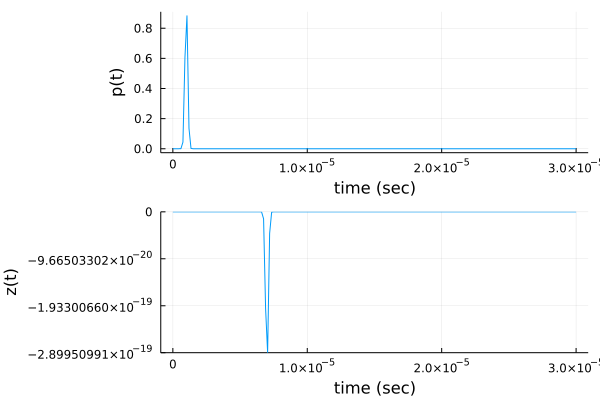
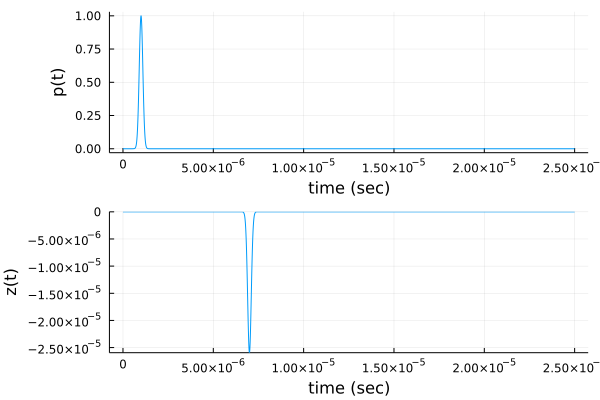
update STAT directional A

diff --git a/docs/src/stationaryDirectionSource/stationaryDirSource.md b/docs/src/stationaryDirectionSource/stationaryDirSource.md
@@ -7,43 +7,44 @@
 | $\Theta(t)$     | scalar function of time    | angle relative to time-varying beam center |
 | $\mathrm{G}_\mathrm{s}(\Theta)$   | scalar function of angle  |  Gain of the source antenna |
 | $\mathrm{G}_\mathrm{r}(\Theta)$   | scalar function of angle  |  Gain of the receiver antenna |
-| $\mathrm{D}_\mathrm{s}\big(\bm{\xi};\,{\mathbf{p}_\mathrm{s},\mathrm{G}_\mathrm{s}(\cdot)}\big)$   | scalar function of position |  directivity of source |
-| $h\big(\bm{\xi},t;\,{\mathbf{p}_\mathrm{s},\mathrm{G}_\mathrm{s}(\cdot)}\big)$       |  scalar function of position and time  | LTI impulse response from    $\mathbf{p}_\mathrm{s}$ to  $\bm{\xi}$ |
-| $g(\bm{\xi},t;\,{\mathbf{p}_\mathrm{r}})$   |  scalar function of position and time  | LTI impulse response from    $\bm{\xi}$ to $\mathbf{p}_\mathrm{r}$ |
+| $\mathrm{D}_\mathrm{s}\big(\bm{\xi};\,{\mathbf{p}_\mathrm{s},\mathbf{b}_\mathrm{s}(\cdot)}\big)$   | scalar function of position |  directivity of source |
+| $\mathrm{D}_\mathrm{r}\big(\bm{\xi};\,{\mathbf{p}_\mathrm{r},\mathbf{b}_\mathrm{r}(\cdot)}\big)$   | scalar function of position |  directivity of receiver |
+| $\mathsf{h}\big(\bm{\xi},t;\,{\mathbf{p}_\mathrm{s},\mathbf{b}_\mathrm{s}(\cdot)}\big)$       |  scalar function of position and time  | LTI impulse response from    $\mathbf{p}_\mathrm{s}$ to  $\bm{\xi}$ |
+| $\mathsf{g}(\bm{\xi},t;\,{\mathbf{p}_\mathrm{r},\mathbf{b}_\mathrm{r}(\cdot)})$   |  scalar function of position and time  | LTI impulse response from    $\bm{\xi}$ to $\mathbf{p}_\mathrm{r}$ |
 
 ![](https://raw.githubusercontent.com/NMSU-ISA/LTVsystems/main/docs/src/assets/Stationary_Directional_Model_BD.png)
 
 
 The LTI impulse response from $\mathbf{p}_\mathrm{s}$ to  $\bm{\xi}$ is given by
 
-$h\big(\bm{\xi},t;\,{\mathbf{p}_\mathrm{s},\mathbf{b}_\mathrm{s}(\cdot)}\big) = \mathrm{D}_\mathrm{s}\big(\bm{\xi};\,{\mathbf{p}_\mathrm{s},\mathbf{b}_\mathrm{s}(\cdot)}\big)
-\mathrm{A}\left(\frac{\|\bm{\xi}-\mathbf{p}_\mathrm{s}\|}
+$\mathsf{h}\big(\bm{\xi},t;\,{\mathbf{p}_\mathrm{s},\mathbf{b}_\mathrm{s}(\cdot)}\big) = \mathrm{D}_\mathrm{s}\big(\bm{\xi};\,{\mathbf{p}_\mathrm{s},\mathbf{b}_\mathrm{s}(\cdot)}\big)
+\mathsf{A}\left(\frac{\|\bm{\xi}-\mathbf{p}_\mathrm{s}\|}
 {\mathrm{c}}\right) \delta\left(t-\frac{\|\bm{\xi}-\mathbf{p}_\mathrm{s}\|}{\mathrm{c}}\right).$
 
 ```math
 \begin{aligned}
-q(\bm{\xi},t)  &= p(t) \overset{t}{*} h\big(\bm{\xi},t;\,{\mathbf{p}_\mathrm{s},\mathbf{b}_\mathrm{s}(\cdot)}\big) \\
+\mathsf{q}(\bm{\xi},t)  &= \mathsf{p}(t) \overset{t}{*} \mathsf{h}\big(\bm{\xi},t;\,{\mathbf{p}_\mathrm{s},\mathbf{b}_\mathrm{s}(\cdot)}\big) \\
                &=\mathrm{D}_\mathrm{s}\big(\bm{\xi};\,{\mathbf{p}_\mathrm{s},\mathbf{b}_\mathrm{s}(\cdot)}\big)
-               \mathrm{A}\left(\frac{\|\bm{\xi}-\mathbf{p}_\mathrm{s}\|}
-               {\mathrm{c}}\right) p\left(t-\frac{\|\bm{\xi}-\mathbf{p}_\mathrm{s}\|}{\mathrm{c}}\right).
+               \mathsf{A}\left(\frac{\|\bm{\xi}-\mathbf{p}_\mathrm{s}\|}
+               {\mathrm{c}}\right) \mathsf{p}\left(t-\frac{\|\bm{\xi}-\mathbf{p}_\mathrm{s}\|}{\mathrm{c}}\right).
 \end{aligned}
 ```
 
 The reflection due to source is given by
 
-$r(\bm{\xi},t) = f(\bm{\xi}) q(\bm{\xi},t).$
+$\mathsf{r}(\bm{\xi},t) = \mathsf{f}(\bm{\xi}) \mathsf{q}(\bm{\xi},t).$
 
 The LTI impulse response from an arbitrary position $\bm{\xi}$ to the receiver at position $\mathbf{p}_\mathrm{r}$ is given by
 
-$g\big(\bm{\xi},t;\,{\mathbf{p}_\mathrm{r}}\big) = \mathrm{A}\left(\frac{\|\mathbf{p}_\mathrm{r}-\bm{\xi}\|}{\mathrm{c}}\right) \delta\left(t-\frac{\|\mathbf{p}_\mathrm{r}-\bm{\xi}\|}{\mathrm{c}}\right).$
+$\mathsf{g}\big(\bm{\xi},t;\,{\mathbf{p}_\mathrm{r}}\big) = \mathsf{A}\left(\frac{\|\mathbf{p}_\mathrm{r}-\bm{\xi}\|}{\mathrm{c}}\right) \delta\left(t-\frac{\|\mathbf{p}_\mathrm{r}-\bm{\xi}\|}{\mathrm{c}}\right).$
 
 The signal observed at $\mathbf{p}_\mathrm{r}$ due to the reflection from the
 position $\bm{\xi}$ is given by
 
 ```math
 \begin{aligned}
-\psi(\bm{\xi},t) &= r(\bm{\xi},t) \overset{t}{*} g\big(\bm{\xi},t;\,{\mathbf{p}_\mathrm{r}}\big) \\
-                 &= \mathrm{A}\left(\frac{\|\mathbf{p}_\mathrm{r}-\bm{\xi}\|}{\mathrm{c}}\right) r\left(\bm{\xi},t-\frac{\|\mathbf{p}_\mathrm{r}-\bm{\xi}\|}{\mathrm{c}}\right).
+\mathsf{\psi}(\bm{\xi},t) &= \mathsf{r}(\bm{\xi},t) \overset{t}{*} \mathsf{g}\big(\bm{\xi},t;\,{\mathbf{p}_\mathrm{r}}\big) \\
+                 &= \mathsf{A}\left(\frac{\|\mathbf{p}_\mathrm{r}-\bm{\xi}\|}{\mathrm{c}}\right) \mathsf{r}\left(\bm{\xi},t-\frac{\|\mathbf{p}_\mathrm{r}-\bm{\xi}\|}{\mathrm{c}}\right).
 \end{aligned}
 ```
 
@@ -54,47 +55,46 @@ position $\bm{\xi}$ is given by
 * single stationary directional source with time-varying beam center
 * single stationary receiver at same location as the source
 * single stationary ideal point reflector
-* the source emits an impulse
+* the source emits a pulse
 
 
 ### Forward Modeling
 
-For scenario A, we provided the position of the stationary direction source $𝐩ₛ$, with time-varying beam center $𝐛(t)$, the stationary direction receiver's position $𝐩ᵣ$ being at the same location $(𝐩ₛ=𝐩ᵣ)$, the transmitted signal $p(t)$, and an ideal point reflector $\bm{\xi}_0$.
+For scenario A, we provided the position of the stationary direction source $𝐩ₛ$, with time-varying beam center $𝐛(t)$, the stationary direction receiver's position $𝐩ᵣ$ being at the same location $(𝐩ₛ=𝐩ᵣ)$, the transmitted signal $\mathsf{p}(t)$, and an ideal point reflector $\bm{\xi}_0$.
 
 Now the expression for the reflector function is given by
 
-$f(\bm{\xi}) = \alpha_0 \delta(\bm{\xi} - \bm{\xi}_0).$
+$\mathsf{f}(\bm{\xi}) = \mathsf{\alpha}_0 \delta(\bm{\xi} - \bm{\xi}_0).$
 
 We compute the reflection due to the directional source as follows
 
-$r(\bm{\xi},t) = \alpha_0 \delta(\bm{\xi} - \bm{\xi}_0)
+$\mathsf{r}(\bm{\xi},t) = \mathsf{\alpha}_0 \delta(\bm{\xi} - \bm{\xi}_0)
 \mathrm{D}_\mathrm{s}\big(\bm{\xi};\,{\mathbf{p}_\mathrm{s},\mathbf{b}_\mathrm{s}(\cdot)}\big)
-\mathrm{A}\left(\frac{\|\bm{\xi}-\mathbf{p}_\mathrm{s}\|}
-{\mathrm{c}}\right) p\left(t-\frac{\|\bm{\xi}-\mathbf{p}_\mathrm{s}\|}{\mathrm{c}}\right).$
+\mathsf{A}\left(\frac{\|\bm{\xi}-\mathbf{p}_\mathrm{s}\|}
+{\mathrm{c}}\right) \mathsf{p}\left(t-\frac{\|\bm{\xi}-\mathbf{p}_\mathrm{s}\|}{\mathrm{c}}\right).$
 
-Finally, the closed form expression of the observed signal, $z(t)$
-with $(𝐩ₛ=𝐩ᵣ)$ is given by
+Finally, the closed form expression of the observed signal, $\mathsf{z}(t)$ with $(𝐩ₛ=𝐩ᵣ)$ is given by
 
-$z(t) = \alpha_0 \mathrm{D}_
+$\mathsf{z}(t) = \mathsf{\alpha}_0 \mathrm{D}_
 \mathrm{s}\big(\bm{\xi}_0;\,{\mathbf{p}_\mathrm{s},
-\mathbf{b}_\mathrm{r}(\cdot)}\big)\mathrm{A}^2
+\mathbf{b}_\mathrm{s}(\cdot)}\big)\mathsf{A}^2
 \left(\frac{\|\mathbf{p}_\mathrm{r}-\bm{\xi}_0\|}
 {\mathrm{c}}\right)p\left(t -2\frac{\|\mathbf{p}_\mathrm{r}-\bm{\xi}_0\|}{\mathrm{c}}\right).$
 
 ```julia
-using LTVsystems, Plots
+using LTVsystems
+using Plots
 tₚ = 1.0e-06 
-T  = 15.0e-6
 𝐩ₛ =  [0.0, 0.0]
 𝐩ᵣ =  𝐩ₛ
 p(t) = δn(t-tₚ,1.0e-07)
 𝐛(t) = [cos(2π*10*(t-tₚ)),0.0]/(norm(cos(2π*10*(t-tₚ))))
-G(θ) = 𝒩ᵤ(θ, μ=0.0, σ=π/8)
+G(θ) = 𝒩ᵤ(θ, μ=0.0, σ=π/64)
 q = STATsourceD(𝐩ₛ,p,𝐛,G)
-α₀ = 0.7; 𝛏₀ = [0.2c*T,0.0]
+α₀ = -0.7; 𝛏₀ = [0.2c*T,0.0]
 r = pointReflector(𝛏₀,α₀,q)
-z = STATreceiverD([r],𝐩ᵣ,𝐛,G)
-t=0.0:T/100:2T
+z = LTIreceiverO([r],𝐩ᵣ)
+t=0.0:1.0e-08:25.0e-06
 p1 = plot(t,p, xlab="time (sec)", ylab="p(t)", legend=:false)
 p2 = plot( t, z(t),ylims=(minimum(z(t)),maximum(z(t))), xlab="time (sec)", ylab="z(t)", legend=:false)
 plot(p1,p2,layout=(2,1))
@@ -103,11 +103,12 @@ plot(p1,p2,layout=(2,1))
 
 ### Inverse Modeling
 
-Given the scenario A assumptions, we obtained the received signal, $z(t)$. Now we can estimate the reflector function by considering the transmitted signal $p(t)=δ(t-t_p)$ as follows
+Given the scenario A assumptions, we obtained the received signal, $\mathsf{z}(t)$. Now we can estimate the reflector function by considering the transmitted signal as follows 
 
-$\hat{f}(\bm{\xi}) = \dfrac{z\left(t_p+\frac{2\|\bm{\xi}-\mathbf{p}_\mathrm{r}\|}{\mathrm{c}}\right)\mathrm{D}_\mathrm{s}\left(\bm{\xi};\,{\mathbf{p}_\mathrm{s},\mathbf{b}_\mathrm{s}\big(\frac{2\|\bm{\xi}-\mathbf{p}_\mathrm{r}\|}{\mathrm{c}}\big)}\right)}
-{\mathrm{A}^2\big(\frac{\|\bm{\xi}-\mathbf{p}_\mathrm{r}\|}{\mathrm{c}}\big) }
-.$
+$\mathsf{p}(t)=δ(t-\mathrm{t_p})$ 
+
+$\hat{\mathsf{f}}(\bm{\xi}) = \dfrac{\mathsf{z}\left(\mathrm{t_p}+\frac{2\|\bm{\xi}-\mathbf{p}_\mathrm{r}\|}{\mathrm{c}}\right)\mathrm{D}_\mathrm{s}\left(\bm{\xi};\,{\mathbf{p}_\mathrm{s},\mathbf{b}_\mathrm{s}(\mathrm{t_p})}\right)}
+{\mathsf{A}^2\big(\frac{\|\bm{\xi}-\mathbf{p}_\mathrm{r}\|}{\mathrm{c}}\big) }.$
 
 ```julia
 using LTVsystems, Plots
@@ -150,9 +151,9 @@ $f(\bm{\xi}) = \alpha_0 \delta(\bm{\xi} - \bm{\xi}_0).$
 
 We compute the reflection due to the directional source as follows
 
-$r(\bm{\xi},t) = \alpha_0 \delta(\bm{\xi} - \bm{\xi}_0)
+$\mathsf{r}(\bm{\xi},t) = \alpha_0 \delta(\bm{\xi} - \bm{\xi}_0)
 \mathrm{D}_\mathrm{s}\big(\bm{\xi};\,{\mathbf{p}_\mathrm{s},\mathbf{b}_\mathrm{s}(\cdot)}\big)
-\mathrm{A}\left(\frac{\|\bm{\xi}-\mathbf{p}_\mathrm{s}\|}
+\mathsf{A}\left(\frac{\|\bm{\xi}-\mathbf{p}_\mathrm{s}\|}
 {\mathrm{c}}\right) p\left(t-\frac{\|\bm{\xi}-\mathbf{p}_\mathrm{s}\|}{\mathrm{c}}\right).$
 
 Finally, the closed form expression of the observed signal, $z(t)$
@@ -160,8 +161,8 @@ is given by
 
 $z(t) = \alpha_0 \mathrm{D}_
 \mathrm{s}\big(\bm{\xi}_0;\,{\mathbf{p}_\mathrm{s},
-\mathbf{b}_\mathrm{s}(\cdot)}\big)\mathrm{A}\left(\frac{\|\mathbf{p}_\mathrm{r}-\bm{\xi}_0\|}{\mathrm{c}}\right)
-\mathrm{A}\left(\frac{\|\bm{\xi}_0-
+\mathbf{b}_\mathrm{s}(\cdot)}\big)\mathsf{A}\left(\frac{\|\mathbf{p}_\mathrm{r}-\bm{\xi}_0\|}{\mathrm{c}}\right)
+\mathsf{A}\left(\frac{\|\bm{\xi}_0-
 \mathbf{p}_\mathrm{s}\|}{\mathrm{c}}\right) p\left(t-
 \frac{\|\mathbf{p}_\mathrm{r}-\bm{\xi}_0\|+\|\bm{\xi}_0-
 \mathbf{p}_\mathrm{s}\|}{\mathrm{c}}\right).$
@@ -195,8 +196,8 @@ $\hat{f}(\bm{\xi}) =\dfrac{z\left(t_p+\frac{\|\mathbf{p}_\mathrm{r}-
 \bm{\xi}\|+\|\bm{\xi}-\mathbf{p}_\mathrm{s}\|}
 {\mathrm{c}}  \right)\mathrm{D}_\mathrm{s}\left(\bm{\xi};\,{\mathbf{p}_\mathrm{s},\mathbf{b}_\mathrm{s}\big(\frac{\|\mathbf{p}_\mathrm{r}-
 \bm{\xi}\|+\|\bm{\xi}-\mathbf{p}_\mathrm{s}\|}
-{\mathrm{c}}\big)}\right)}{\mathrm{A}\big(\frac{\|\bm{\xi}-\mathbf{p}_\mathrm{s}\|}{\mathrm{c}}\big)    
-\mathrm{A}\big(\frac{\|\mathbf{p}_\mathrm{r}-\bm{\xi}\|}{\mathrm{c}}\big)}
+{\mathrm{c}}\big)}\right)}{\mathsf{A}\big(\frac{\|\bm{\xi}-\mathbf{p}_\mathrm{s}\|}{\mathrm{c}}\big)    
+\mathsf{A}\big(\frac{\|\mathbf{p}_\mathrm{r}-\bm{\xi}\|}{\mathrm{c}}\big)}
 .$
 
 ```julia
@@ -243,9 +244,9 @@ $f(\bm{\xi}) = \sum\limits_{n=1}^{N}\alpha_n \delta(\bm{\xi} - \bm{\xi}_n).$
 
 We compute the reflection due to the directional source as follows
 
-$r(\bm{\xi},t) = \sum\limits_{n=1}^{N}\alpha_n \delta(\bm{\xi} - \bm{\xi}_n)
+$\mathsf{r}(\bm{\xi},t) = \sum\limits_{n=1}^{N}\alpha_n \delta(\bm{\xi} - \bm{\xi}_n)
 \mathrm{D}_\mathrm{s}\big(\bm{\xi};\,{\mathbf{p}_\mathrm{s},\mathbf{b}_\mathrm{s}(\cdot)}\big)
-\mathrm{A}\left(\frac{\|\bm{\xi}-\mathbf{p}_\mathrm{s}\|}
+\mathsf{A}\left(\frac{\|\bm{\xi}-\mathbf{p}_\mathrm{s}\|}
 {\mathrm{c}}\right) p\left(t-\frac{\|\bm{\xi}-\mathbf{p}_\mathrm{s}\|}{\mathrm{c}}\right).$
 
 Finally, the closed form expression of the observed signal, $z(t)$
@@ -253,7 +254,7 @@ is given by
 
 $z(t) = \sum\limits_{n=1}^{N} \alpha_n \mathrm{D}_
 \mathrm{s}\big(\bm{\xi}_n;\,{\mathbf{p}_\mathrm{s},
-\mathbf{b}_\mathrm{r}(\cdot)}\big)\mathrm{A}^2
+\mathbf{b}_\mathrm{r}(\cdot)}\big)\mathsf{A}^2
 \left(\frac{\|\mathbf{p}_\mathrm{s}-\bm{\xi}_n\|}
 {\mathrm{c}}\right)p\left(t -2\frac{\|\mathbf{p}_\mathrm{s}-\bm{\xi}_n\|}{\mathrm{c}}\right).$
 
@@ -291,7 +292,7 @@ Given the scenario C assumptions, we obtained the received signal, $z(t)$. Now w
 
 In order to consider the transmitted time of the time-varying beam with respect to each periodic impulse, we computed the reflector function corresponding to each periodic impulse as follows
 
-$f_k(\bm{\xi})=\dfrac{z\left(t_p+(k-1)T+\frac{2\|\bm{\xi}-\mathbf{p}_\mathrm{s}\|}{\mathrm{c}}\right)\mathrm{D}_\mathrm{sk}(\bm{\xi})}{\mathrm{A}^2\big(\frac{\|\bm{\xi}-\mathbf{p}_\mathrm{s}\|}{\mathrm{c}}\big)}$
+$f_k(\bm{\xi})=\dfrac{z\left(t_p+(k-1)T+\frac{2\|\bm{\xi}-\mathbf{p}_\mathrm{s}\|}{\mathrm{c}}\right)\mathrm{D}_\mathrm{sk}(\bm{\xi})}{\mathsf{A}^2\big(\frac{\|\bm{\xi}-\mathbf{p}_\mathrm{s}\|}{\mathrm{c}}\big)}$
 
 where $\mathrm{D}_\mathrm{sk}(\bm{\xi}) = \mathbf{G}\big(∠(𝐛(t_p-(k-1)T), \bm{\xi}.-\mathbf{p}_\mathrm{s})\big)$ 
 

diff --git a/docs/src/directionalLTI/dirLTIsource.md b/docs/src/directionalLTI/dirLTIsource.md
@@ -246,8 +246,6 @@ Dᵣ(ξ::Vector{Float64}) = G(angleBetween(𝐛, ξ.-𝐩ᵣ))
 Dₛ(ξ::Vector{Float64}) = G(angleBetween(𝐛, ξ.-𝐩ₛ))
 f(ξ::Vector{Float64}) = (z(tₚ+(norm(ξ-𝐩ₛ) .+ norm(𝐩ᵣ-ξ))./c).*Dₛ(ξ::Vector{Float64}).*Dᵣ(ξ::Vector{Float64}))/
                         (A(norm(ξ-𝐩ₛ)/c).*A(norm(𝐩ᵣ-ξ)/c))
-
-#SPATIAL SIMULATION
 inversePlot2D([q],[r],[z],f)
 ```
 ![](https://raw.githubusercontent.com/NMSU-ISA/LTVsystems/main/docs/src/assets/scenarioB_DirTIsimulation.png)
